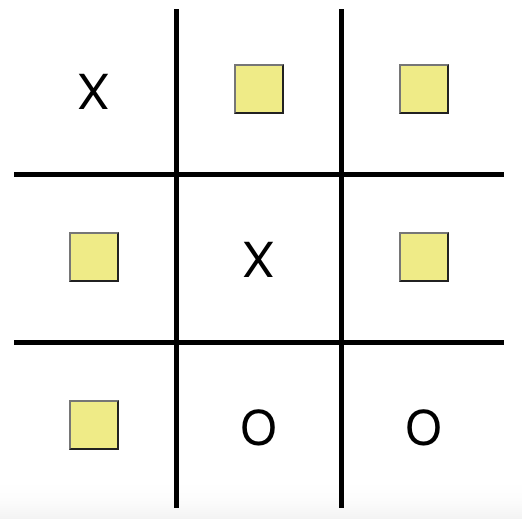
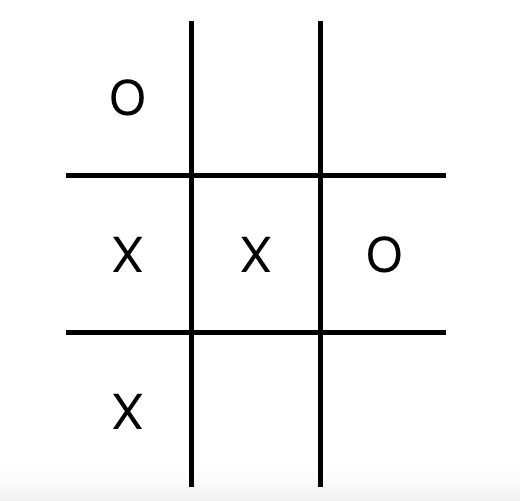
update css

diff --git a/src/App.css b/src/App.css
@@ -16,6 +16,7 @@ body {
   padding-top:30px;
   padding-bottom: 15px;
   font-size: 20px;
+  width:100%
 }
 
 .homeLink {
@@ -44,7 +45,8 @@ body {
 
 .gameImage {
   margin-top: 100px;
-  border: burlywood groove 8px;
+  border: burlywood outset 8px;
+  border-radius: 40px;
   width: 250px;
   height:250px;
   padding:10px;
@@ -54,18 +56,25 @@ body {
 .startGame {
   color: white;
   background-color: black;
-  margin-left: 28%;
-  margin-top: 50%;
-  border: burlywood groove 8px;
+  /* margin-left: 28%; */
+  /* margin-top: 50%; */
+  border: burlywood solid 5px;
+  border-radius: 40px;
   text-decoration: none;
+  position:fixed;
+  top:180px;
+
 }
 
 
 
 /* Styles for game component */
 
+
+
 #image {
-  border: burlywood groove 20px;
+  border: burlywood outset 8px;
+  border-radius: 40px;
   padding: 10px;
   background-color: white;
   width:15%;
@@ -89,7 +98,7 @@ table {
 
 button {
   margin:5px;
-  width: 3vw;
+  width: 40px;
   height:5vh;
   background-color:khaki;
   border-radius: 10px;
@@ -97,7 +106,7 @@ button {
 }
 
 #generate {
-  width: 10%;
+  width: 90px;
   margin-left: 30%;
   margin-top:15vh;
 }
@@ -166,35 +175,46 @@ a {
   border-collapse: collapse;
   font-size: 50px;
   text-align: center;
+  width:380px;
 }
 
 .row1 {
   border-bottom: 5px black solid;
-  padding: 50px;
+  /* padding: 50px; */
+  width:250px;
 }
 .row2 {
   border-bottom: 5px black solid;
-  padding: 50px;
+  /* padding: 50px; */
 }
 .row3 {
-  padding: 50px;
+  /* padding: 50px; */
 }
 .column1 {
   border-right: 5px black solid;
-  padding: 50px;
+  width:100px;
+  height:150px;
 }
 .column2 {
   border-right: 5px black solid;
-  padding: 50px;
+  width:100px;
+  height:150px;
 }
 .column3 {
-  padding: 50px;
+  width:100px;
+  height:150px;
 }
 
 .buttonXO {
-  width: 50px;
-  height: 50px;
+  width: 90px;
+  height: 90px;
+  border: none;
+  background:white;
+  
 }
 .hiddenXO {
   display: none;
+}
+.reveal {
+  padding:50px
 }

diff --git a/src/components/landing.js b/src/components/landing.js
@@ -9,8 +9,8 @@ function Landing() {
 
     return(
         <div>
-            <Link to="/hangman" className="gameButton"><img src={hangmanButton} className="gameImage"></img></Link>
-            <Link to="/tictactoe" className="gameButton"><img src={tictactoeButton} className="gameImage"></img></Link>
+            <Link to="/hangman" className="gameButton"><img src={hangmanButton} className="gameImage" alt="Hangman"></img></Link>
+            <Link to="/tictactoe" className="gameButton"><img src={tictactoeButton} className="gameImage" alt="Tic Tac Toe"></img></Link>
         </div>
         )
 }

diff --git a/src/components/section.js b/src/components/section.js
@@ -10,11 +10,11 @@ function Section() {
     let handleClick = (e) => {
         console.log(count)
         if (count%2 === 0){
-            e.target.nextSibling.className = ""
+            e.target.nextSibling.className = "reveal"
             e.target.className = "hidden"
         }
         else {
-            e.target.nextSibling.nextSibling.className = ""
+            e.target.nextSibling.nextSibling.className = "reveal"
             e.target.className = "hidden"
         }
         dispatch(increment())

diff --git a/public/index.html b/public/index.html
@@ -24,7 +24,7 @@
       work correctly both with client-side routing and a non-root public URL.
       Learn how to configure a non-root public URL by running `npm run build`.
     -->
-    <title>React App</title>
+    <title>Games App</title>
   </head>
   <body>
     <noscript>You need to enable JavaScript to run this app.</noscript>

diff --git a/README.md b/README.md
@@ -1,5 +1,8 @@
 # Capstone Project - Create a React App
 My final project during my Web Development Bootcamp was to create an App using React. I created a hangman game that showcases all the different skills and techniques I learned. There was certain criteria I had to follow; It had to contain different components that respond to user interaction, where a number of them were rendered using the array.Map() method. User interaction had to modify the state of some components - I utilised this by the hangman image changing state depending on whether the user selected a correct/incorrect letter. The user had to be able to request help where I explained the rules on a new "page using the react-router-dom. The app also had the be attractive, easy to use and intuitive.
+<br/><br/>
+
+I am currently continuing to work on this project and plan on adding more games to the application.
 
 1. [Installation](#install)
 2. [Usage](#usage)
